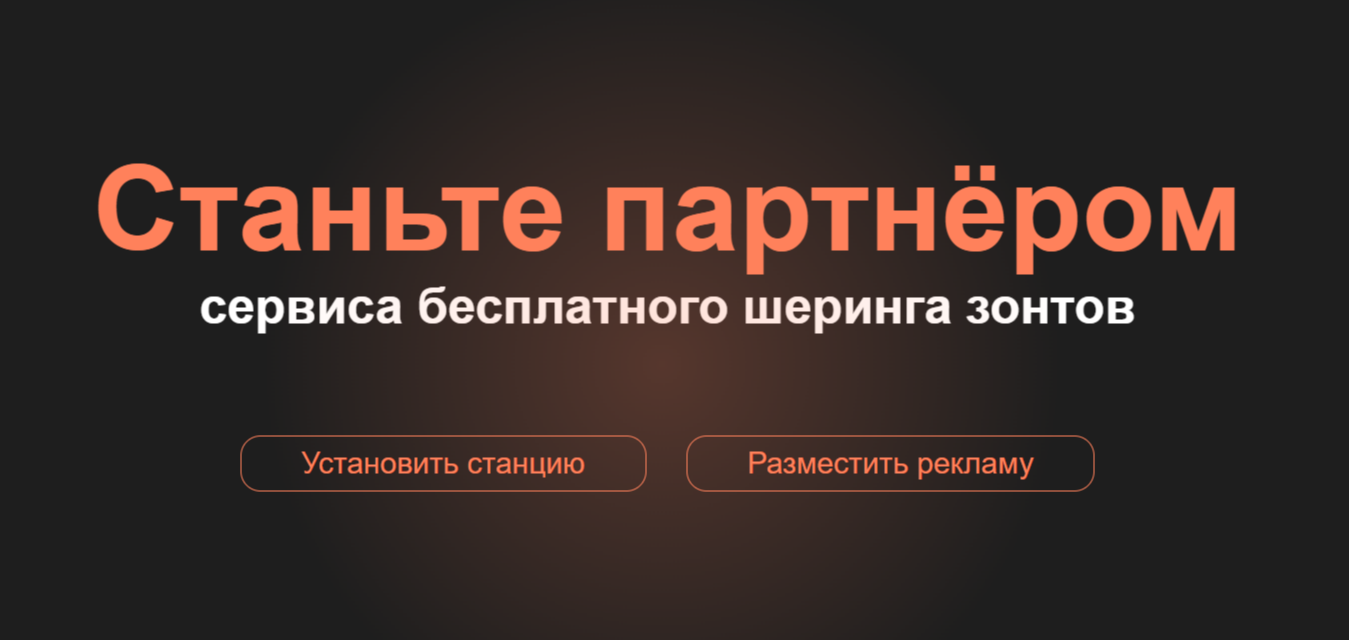
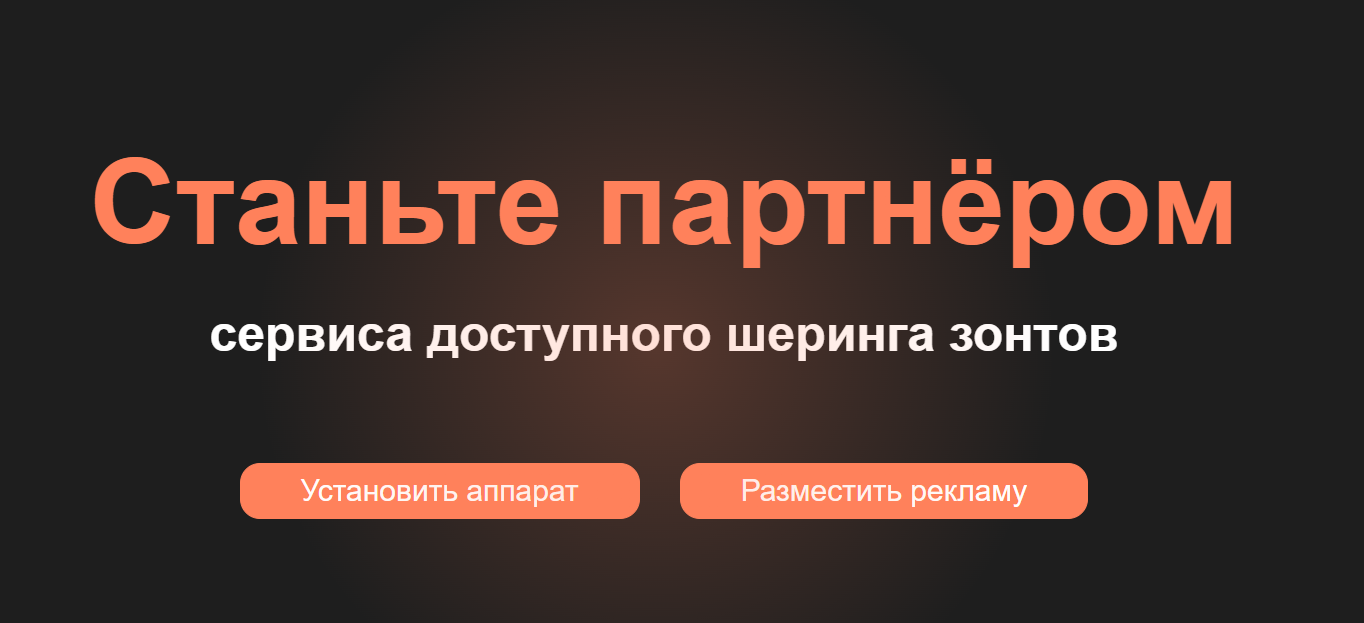
Метаданные страниц "Главная" и "Бизнесу" обновлены

diff --git a/templates/index.html b/templates/index.html
@@ -5,12 +5,12 @@
     {% include 'components/head_base.html' %}
     {% include 'components/yandex_metrika.html' %}
 
-    <meta name="description" content="Возьми зонт бесплатно и верни в ближайшем аппарате.">
-    <meta property="og:title" content="WISH — сервис бесплатного шеринга зонтов в городе">
+    <meta name="description" content="Возьми зонт и верни в ближайшем аппарате.">
+    <meta property="og:title" content="WISH — сервис шеринга зонтов в городе">
     <meta property="og:type" content="website">
     <meta property="og:url" content="https://shareu.ru/">
     <meta property="og:image" content="https://shareu.ru/static/img/index/preview.png">
-    <meta property="og:description" content="Возьми зонт бесплатно и верни в ближайшем аппарате.">
+    <meta property="og:description" content="Возьми зонт и верни в ближайшем аппарате.">
 
     <link rel="stylesheet" href="/static/css/index.css">
 
